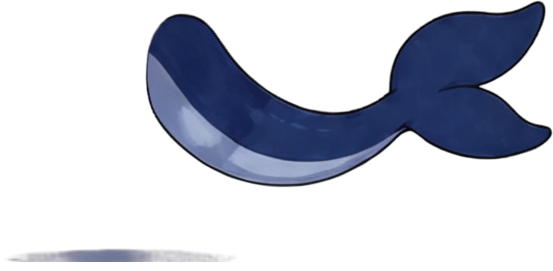
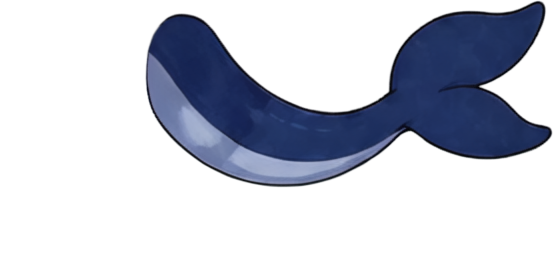
spike(side_rig): sleep slides into frame; tail shadow fully removed
Claude-Session: https://claude.ai/code/session_01CmQpKHsjYnEbt9fVzhg7Ce

Changed region(s): [[0.0, 0.9151, 0.3996, 0.9742]]

diff --git a/spikes/side_rig/rig.js b/spikes/side_rig/rig.js
@@ -173,7 +173,7 @@ function stepSprings(dt) {
 
 // ------------------------------------------------------------------ actions
 const A = {};
-const poseReset = () => { for (const b of boneList) b.userData.pose = 0; S_.rootY = 0; S_.rootRot = 0; S_.eyesClosed = 0; S_.mouthOpen = 0; S_.irisOff = [0, 0]; S_.speed = 0; };
+const poseReset = () => { for (const b of boneList) b.userData.pose = 0; S_.rootY = 0; S_.rootRot = 0; S_.rootX = 0; S_.eyesClosed = 0; S_.mouthOpen = 0; S_.irisOff = [0, 0]; S_.speed = 0; };
 const walkCycle = (tau, f, amp, knee, armAmp) => {
   const ph = 2 * Math.PI * f * tau;
   const fwd = S_.facing;                       // -1: forward is -x. rotation.z positive = CCW; a down-pointing leg swings to +x with +rot
@@ -246,6 +246,7 @@ A.sleep = (tau) => {
   const u = smooth(clamp(tau / 1.0, 0, 1));
   S_.rootRot = -S_.facing * (Math.PI / 2) * u;                 // lie down with the head toward her front
   S_.rootY = 0.0 + 0.16 * u;
+  S_.rootX = -S_.facing * 0.85 * u;                             // she pivots at the feet: slide so the lying body stays in frame
   S_.eyesClosed = u;
   bones.chest.userData.pose = 0.03 * Math.sin(tau * 0.9);
   for (const s of ['near', 'far']) { bones['thigh_' + s].userData.pose = S_.facing * -0.35 * u; bones['shin_' + s].userData.pose = S_.facing * 0.5 * u; }
@@ -253,7 +254,7 @@ A.sleep = (tau) => {
   bones.upper_arm_far.userData.pose = S_.facing * -0.5 * u; bones.forearm_far.userData.pose = S_.facing * -0.7 * u;
   bones.head.userData.pose = S_.facing * 0.12 * u;
 };
-A.wake = (tau) => { const u = 1 - smooth(clamp(tau / 1.0, 0, 1)); A.sleep(1.0); S_.rootRot *= u; S_.rootY *= u; S_.eyesClosed = u; for (const b of boneList) b.userData.pose *= u; if (u <= 0) A.idle(tau); };
+A.wake = (tau) => { const u = 1 - smooth(clamp(tau / 1.0, 0, 1)); A.sleep(1.0); S_.rootRot *= u; S_.rootY *= u; S_.rootX *= u; S_.eyesClosed = u; for (const b of boneList) b.userData.pose *= u; if (u <= 0) A.idle(tau); };
 A.turn = (tau) => { A.idle(tau); if (!S_.turn) S_.turn = { t0: S_.t, from: S_.facing }; };
 A.stretch = (tau) => {
   poseReset();
@@ -324,7 +325,7 @@ function tick(dt) {
     if (u >= 1) { S_.facing = -S_.turn.from; group.scale.x = S_.facing; S_.turn = null; if (S_.action === 'turn') S_.action = 'idle'; }
     else group.scale.x = S_.turn.from * Math.max(0.05, Math.abs(Math.cos(Math.PI * u))) * (u < 0.5 ? 1 : -1);
   }
-  group.position.x = S_.x; group.position.y = GROUND_Y;
+  group.position.x = S_.x + (S_.rootX || 0); group.position.y = GROUND_Y;
   applyPose();
   stepSprings(dt);
   applyPose();
